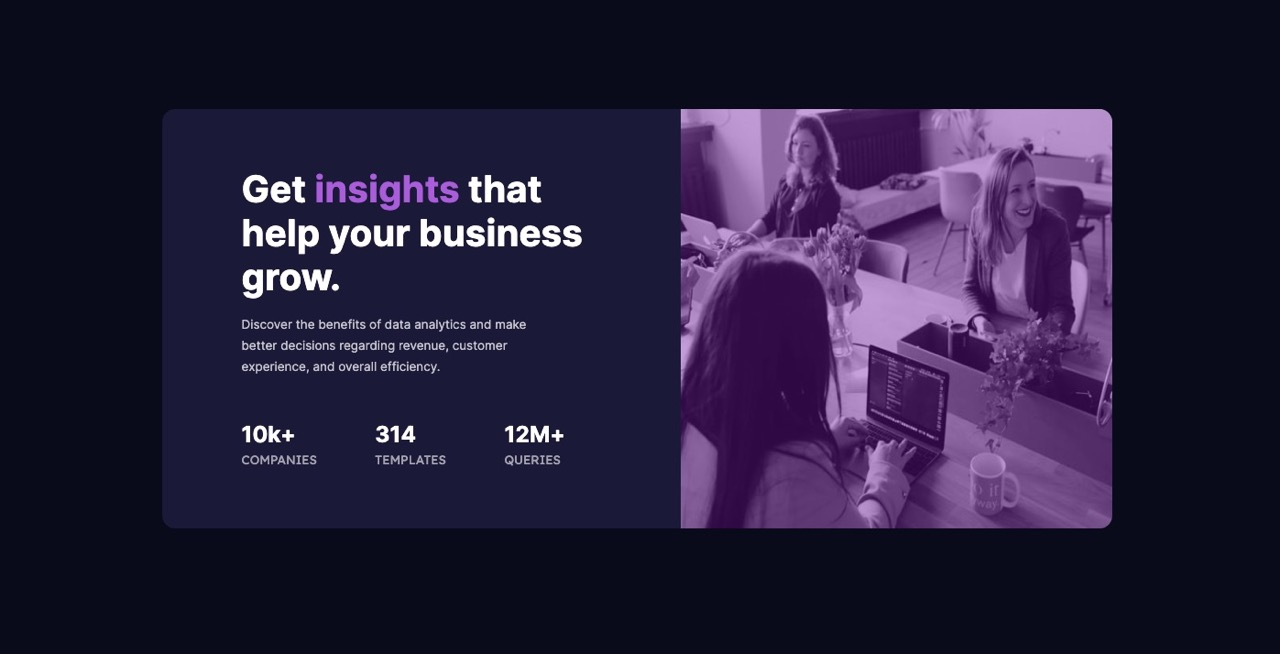
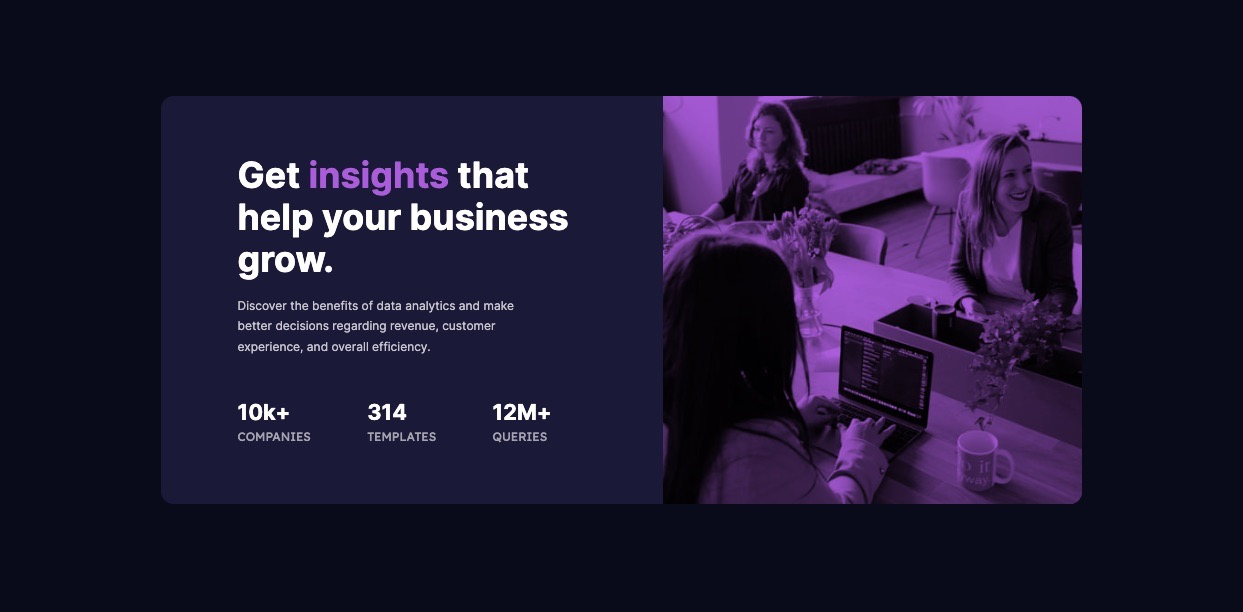
Fix style issues

diff --git a/style.css b/style.css
@@ -44,22 +44,15 @@ body {
     order: -1;
     position: relative;
     flex-basis: 100%;
-}
-
-.card-image::after {
-    position: absolute;
-    content: "";
-    background-color: hsla(277, 81%, 36%, 0.4);
-    width: 100%;
-    height: 100%;
-    top: 0;
-    left: 0;
     border-radius: 1rem 1rem 0 0;
+    background-color: var(--clr-accent);
 }
 
 .card-image img {
     border-radius: 1rem 1rem 0 0;
     height: 100%;
+    mix-blend-mode: multiply;
+    object-fit: cover;
 }
 
 .card-image picture {
@@ -78,7 +71,6 @@ body {
     font-size: clamp(var(--fs-400), 5vw + 1rem, var(--fs-900));
     font-family: var(--ff-primary);
     font-weight: var(--fw-bold);
-    line-height: 3.3rem;
     margin-bottom: 1.2rem;
     text-align: center;
 }
@@ -133,7 +125,8 @@ body {
     }
 
     .card-image {
-        order: 1
+        order: 1;
+        border-radius: 0 1rem 1rem 0;
     }
 
     .card-image::after {
@@ -151,6 +144,10 @@ body {
     .card-heading, 
     .card-desc {
         text-align: left;
+    }
+
+    .card-heading {
+        line-height: 3.3rem;
     }
 
     .card-stats {
